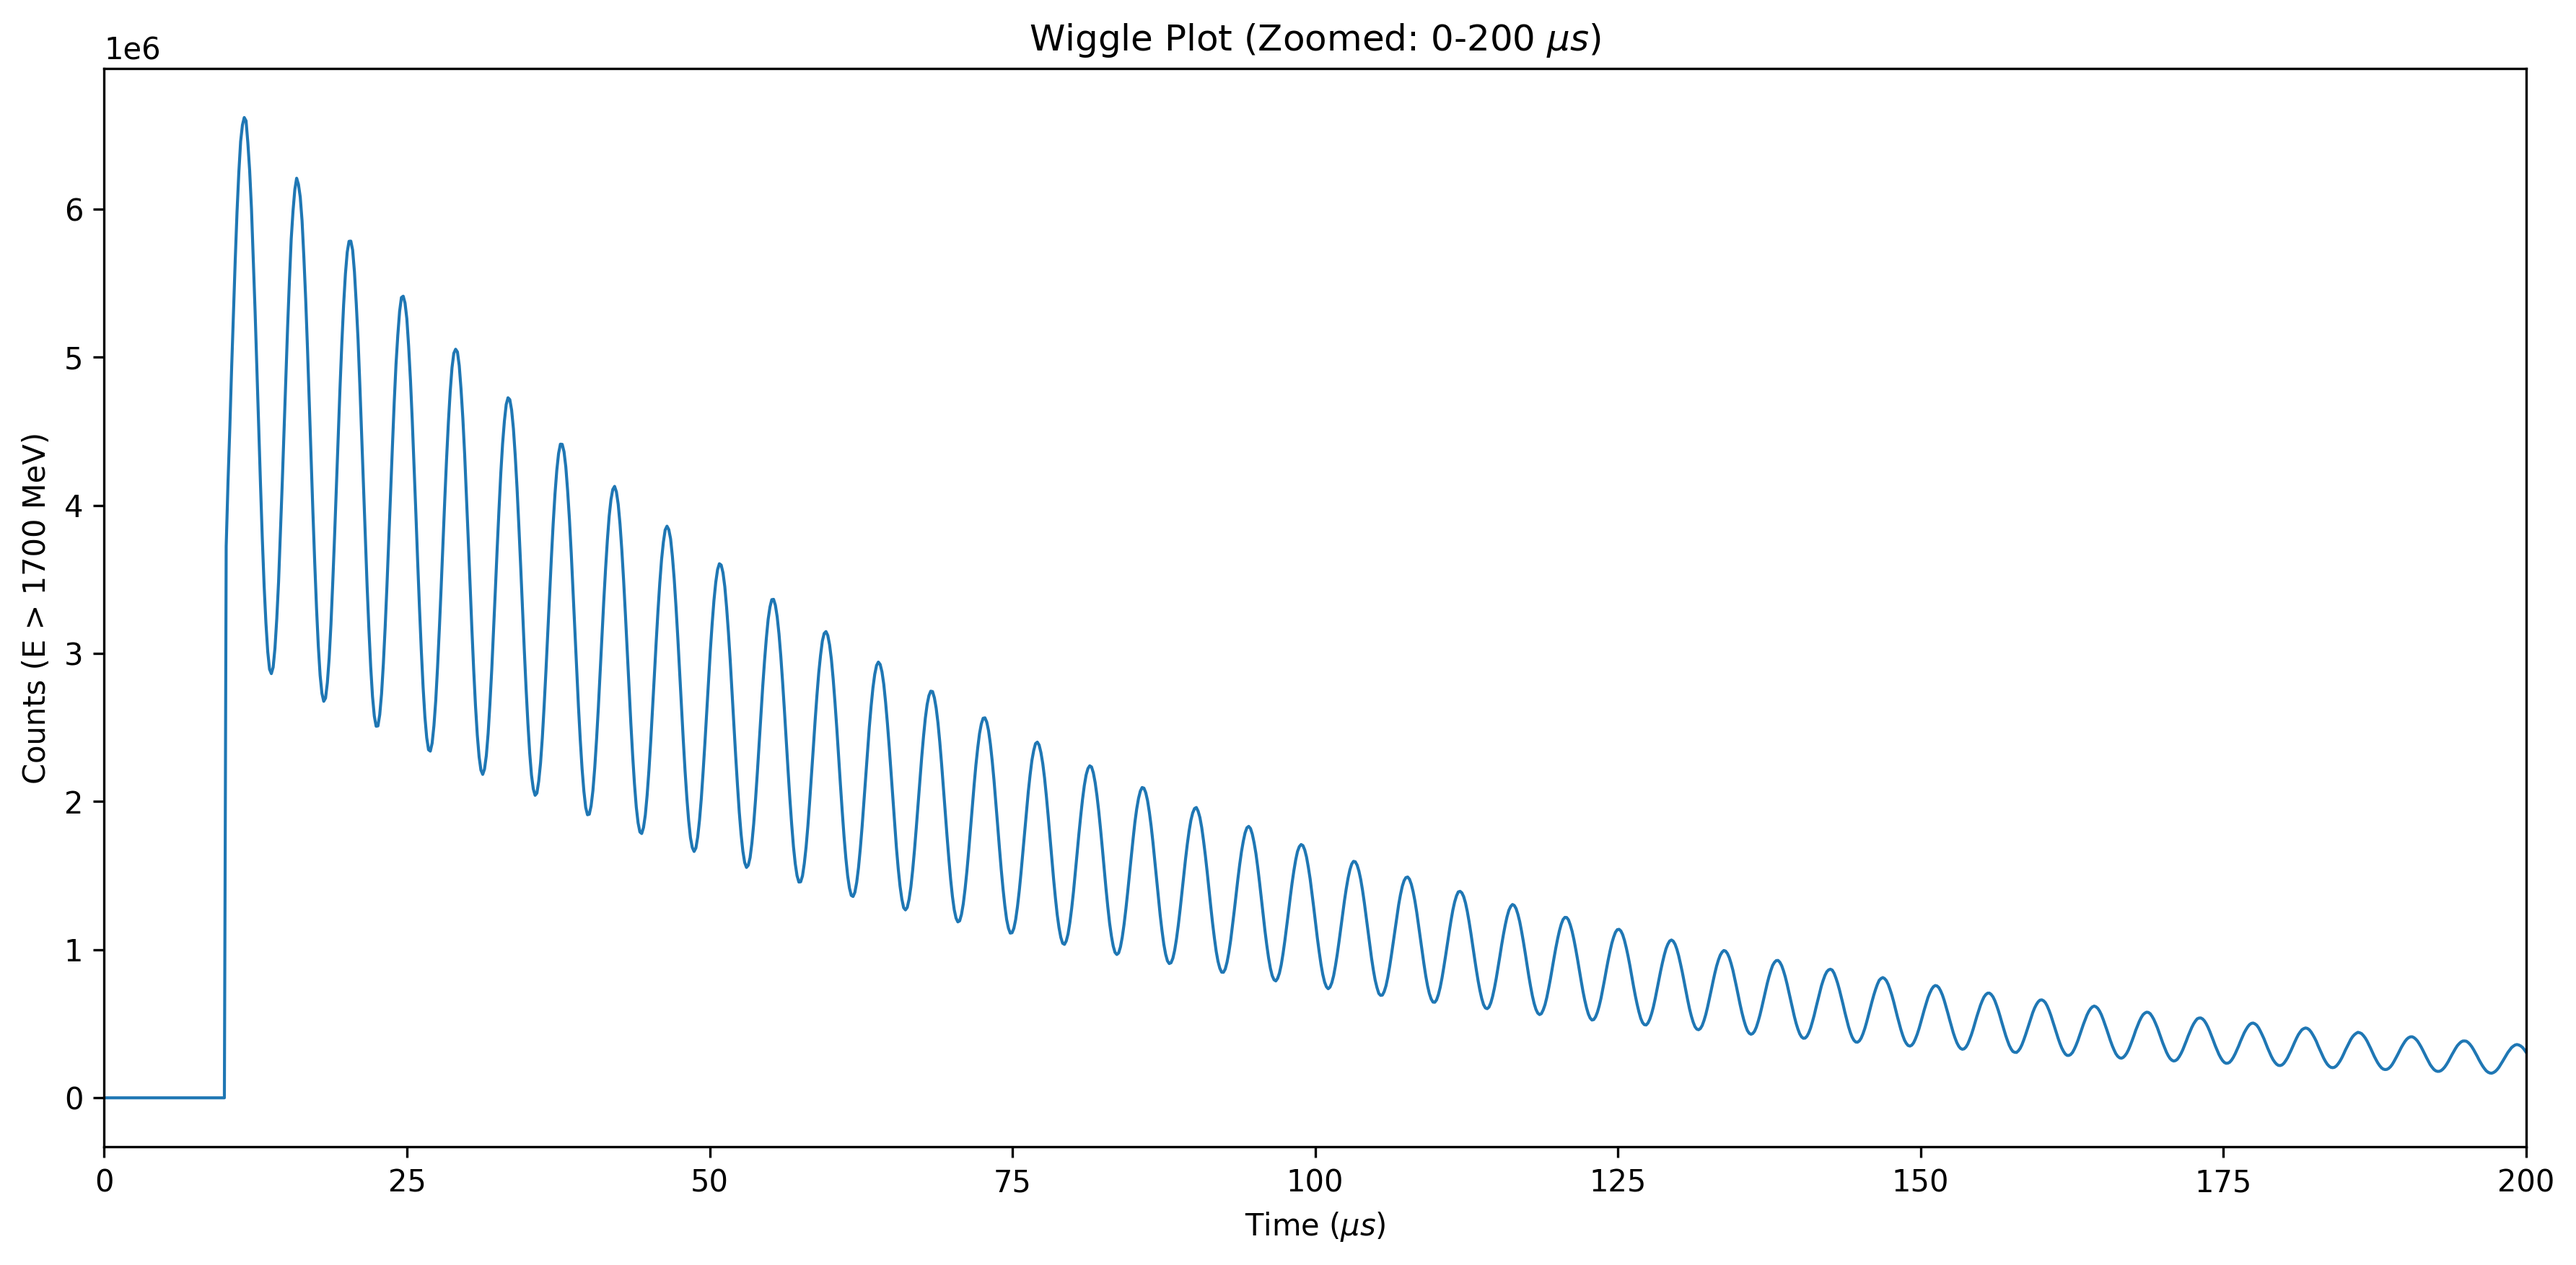
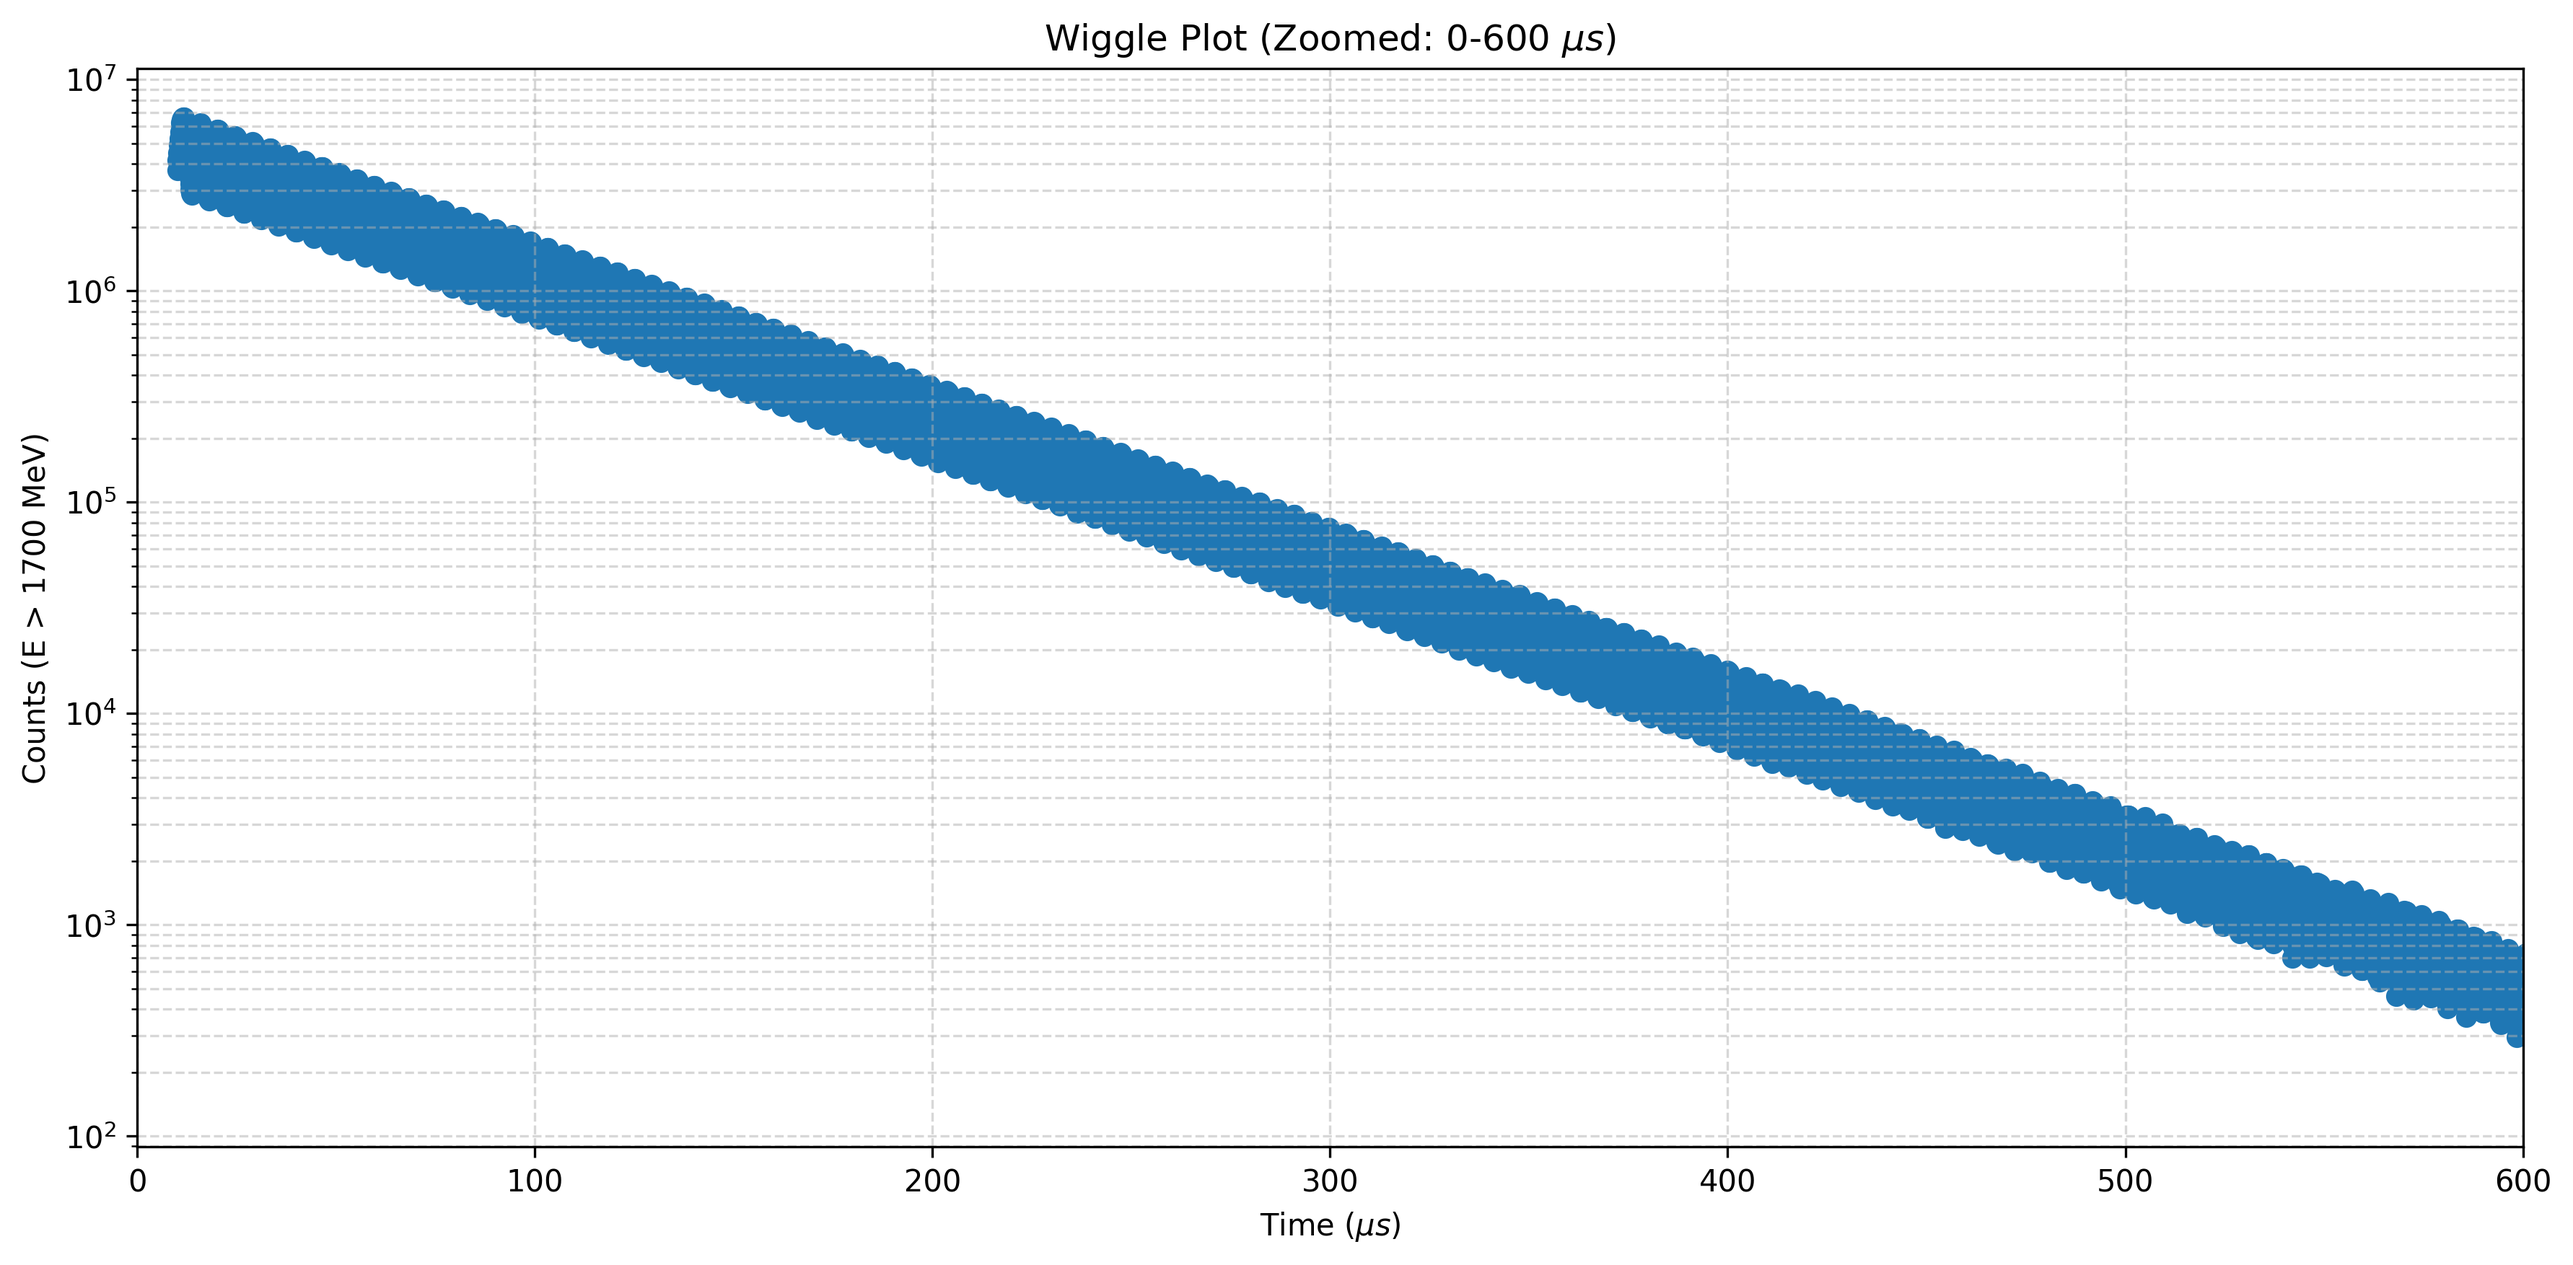
Refactor code structure for improved readability and maintainability

diff --git a/fit copy.py b/fit copy.py
@@ -1,0 +1,145 @@
+# fit.py
+
+import os
+import uproot
+import numpy as np
+import matplotlib.pyplot as plt
+from scipy.optimize import curve_fit
+from constants import TAU_LAB, OMEGA_A
+
+
+TAU_LAB = TAU_LAB * 1e6  # 转换为微秒
+OMEGA_A = OMEGA_A * 1e-6  # 转换为 rad/微秒
+# --- 1. 读取 ROOT 文件数据 ---
+try:
+    file = uproot.open("run6A.root")
+    hist = file["et_spectrum"]
+    values = hist.values()
+    time_edges = hist.axis(0).edges()
+    energy_edges = hist.axis(1).edges()
+except FileNotFoundError:
+    print("Error: run6A.root not found. Please make sure the ROOT file is in the correct directory.")
+    exit()
+
+# --- 2. 设定能量阈值，提取数据 (根据你提供的代码) ---
+threshold = 1700  # MeV
+
+# 找到阈值对应的能量 bin
+energy_bin = np.searchsorted(energy_edges, threshold, side="left")
+
+# 假设第 0 轴是时间，第 1 轴是能量：
+counts = values[:, energy_bin:].sum(axis=1)
+
+# 时间 bin 中心
+time_centers = 0.5 * (time_edges[:-1] + time_edges[1:])
+
+# --- 3. 选择拟合的时间范围 ---
+# 我们使用这两个变量既做拟合范围，也做画图的 xlim
+time_min = 30   # us, 避开早期的束流噪声
+time_max = 600  # us, 避开后期统计量太低的区域
+
+fit_mask = (time_centers >= time_min) & (time_centers <= time_max)
+time_fit = time_centers[fit_mask]
+counts_fit = counts[fit_mask]
+
+# 计算误差（泊松误差为 sqrt(N)，如果 counts 为 0 设为 1 防止除零报错）
+counts_err = np.sqrt(counts_fit)
+counts_err[counts_err == 0] = 1 
+
+# --- 4. 定义包含 omega 作为自由参数的拟合函数 ---
+def wiggle_fit_function(t, N, tau, A, omega, phi_0):
+    """
+    N: Normalization constant
+    tau: Decay time (自由参数)
+    A: Asymmetry parameter
+    omega: Anomalous precession frequency (自由参数)
+    phi_0: Initial phase
+    """
+    # 这里的 TAU_LAB 从 constants.py 导入，作为固定常数
+    return N * np.exp(-t / tau) * (1 + A * np.cos(omega * t - phi_0))
+
+# --- 5. 执行拟合 ---
+# 安全检查：防止单位不匹配导致除零错误
+decay_factor = np.exp(-time_fit[0] / TAU_LAB)
+if decay_factor == 0.0:
+    print("\n[!] ERROR: Decay factor evaluated to 0.0. 可能是 TAU_LAB 的单位不对。")
+    print("请确保 constants.py 中的 TAU_LAB 单位是微秒 (大约是 64.4)。")
+    exit()
+
+# 初始参数猜测 [N, tau, A, omega, phi_0]
+initial_N = counts_fit[0] / decay_factor
+initial_tau = TAU_LAB
+initial_A = 0.4  
+initial_omega = OMEGA_A  # 使用常数作为拟合的初始起点帮助收敛
+initial_phi_0 = 0.0 
+
+p0 = [initial_N, initial_tau, initial_A, initial_omega, initial_phi_0]
+print("Starting fit...")
+try:
+    popt, pcov = curve_fit(
+        wiggle_fit_function,
+        time_fit,
+        counts_fit,
+        p0=p0,
+        sigma=counts_err,
+        absolute_sigma=True, 
+        maxfev=10000 
+    )
+except RuntimeError as e:
+    print(f"Fit failed to converge: {e}")
+    exit()
+
+# 提取拟合参数和误差
+fit_N, fit_tau, fit_A, fit_omega, fit_phi_0 = popt
+perr = np.sqrt(np.diag(pcov))
+err_N, err_tau, err_A, err_omega, err_phi_0 = perr
+
+print("--- Fit Results ---")
+print(f"N     = {fit_N:.3e} ± {err_N:.3e}")
+print(f"tau   = {fit_tau:.2f} ± {err_tau:.2f} us (should be close to TAU_LAB = {TAU_LAB:.2f} us)")
+print(f"A     = {fit_A:.4f} ± {err_A:.4f}")
+print(f"omega = {fit_omega:.6f} ± {err_omega:.6f} rad/us")
+print(f"phi_0 = {fit_phi_0:.4f} ± {err_phi_0:.4f} rad")
+print("--------------------")
+
+# --- 6. 画 wiggle plot (根据你提供的代码风格) ---
+plt.figure(figsize=(12, 6))
+
+# 画原始数据连线
+plt.plot(time_centers, counts, lw=1, color='blue', alpha=0.5, label="Data")
+
+# 生成拟合平滑曲线并绘制
+plot_time = np.linspace(time_min, time_max, 1000)
+fit_curve = wiggle_fit_function(plot_time, *popt)
+plt.plot(plot_time, fit_curve, 'r-', linewidth=2, label="Fit")
+
+# 应用相同的时间显示范围
+plt.xlim(time_min, time_max)
+
+# 添加带单位的标签 (使用原始字符串 r"" 防止转义字符报错)
+plt.xlabel(r"Time ($\mu s$)") 
+plt.ylabel(f"Counts (E > {threshold} MeV)") 
+plt.title(f"Wiggle Plot and Fit (Zoomed: {time_min}-{time_max} $\mu s$)")
+plt.yscale("log") 
+plt.grid(True, which="both", ls="--", alpha=0.5)
+
+# 在图表右上角添加拟合结果文本框
+text_results = f"""Fit Parameters:
+   $N = ${fit_N:.2e} $\pm$ {err_N:.1e}
+   $A = ${fit_A:.3f} $\pm$ {err_A:.3f}
+    $\\tau = ${fit_tau:.2f} $\pm$ {err_tau:.2f} $\mu$s
+   $\omega = ${fit_omega:.5f} $\pm$ {err_omega:.5f} rad/$\mu$s
+   $\phi_0 = ${fit_phi_0:.3f} $\pm$ {err_phi_0:.3f} rad"""
+plt.text(0.65, 0.95, text_results, transform=plt.gca().transAxes,
+         fontsize=12, verticalalignment='top', 
+         bbox=dict(boxstyle='round,pad=0.5', fc='wheat', alpha=0.8))
+
+plt.legend(fontsize=12)
+plt.tight_layout()
+
+# 保存图片
+os.makedirs("plot", exist_ok=True)
+plt.savefig("plot/wiggle_plot_run6A_fit.png", dpi=300, bbox_inches='tight') 
+print("Fit plot saved to plot/wiggle_plot_run6A_fit.png")
+
+plt.show()

diff --git a/fit.py b/fit.py
@@ -1,0 +1,141 @@
+# fit.py
+
+import os
+import uproot
+import numpy as np
+import matplotlib.pyplot as plt
+from scipy.optimize import curve_fit
+from constants import TAU_LAB, OMEGA_A
+
+
+TAU_LAB = TAU_LAB * 1e6  # 转换为微秒
+OMEGA_A = OMEGA_A * 1e-6  # 转换为 rad/微秒
+# --- 1. 读取 ROOT 文件数据 ---
+try:
+    file = uproot.open("run6A.root")
+    hist = file["et_spectrum"]
+    values = hist.values()
+    time_edges = hist.axis(0).edges()
+    energy_edges = hist.axis(1).edges()
+except FileNotFoundError:
+    print("Error: run6A.root not found. Please make sure the ROOT file is in the correct directory.")
+    exit()
+
+# --- 2. 设定能量阈值，提取数据 (根据你提供的代码) ---
+threshold = 1700  # MeV
+
+# 找到阈值对应的能量 bin
+energy_bin = np.searchsorted(energy_edges, threshold, side="left")
+
+# 假设第 0 轴是时间，第 1 轴是能量：
+counts = values[:, energy_bin:].sum(axis=1)
+
+# 时间 bin 中心
+time_centers = 0.5 * (time_edges[:-1] + time_edges[1:])
+
+# --- 3. 选择拟合的时间范围 ---
+# 我们使用这两个变量既做拟合范围，也做画图的 xlim
+time_min = 30   # us, 避开早期的束流噪声
+time_max = 600  # us, 避开后期统计量太低的区域
+
+fit_mask = (time_centers >= time_min) & (time_centers <= time_max)
+time_fit = time_centers[fit_mask]
+counts_fit = counts[fit_mask]
+
+# 计算误差（泊松误差为 sqrt(N)，如果 counts 为 0 设为 1 防止除零报错）
+counts_err = np.sqrt(counts_fit)
+counts_err[counts_err == 0] = 1 
+
+# --- 4. 定义包含 omega 作为自由参数的拟合函数 ---
+def wiggle_fit_function(t, N, A, omega, phi_0):
+    """
+    N: Normalization constant
+    A: Asymmetry parameter
+    omega: Anomalous precession frequency (自由参数)
+    phi_0: Initial phase
+    """
+    # 这里的 TAU_LAB 从 constants.py 导入，作为固定常数
+    return N * np.exp(-t / TAU_LAB) * (1 + A * np.cos(omega * t - phi_0))
+
+# --- 5. 执行拟合 ---
+# 安全检查：防止单位不匹配导致除零错误
+decay_factor = np.exp(-time_fit[0] / TAU_LAB)
+if decay_factor == 0.0:
+    print("\n[!] ERROR: Decay factor evaluated to 0.0. 可能是 TAU_LAB 的单位不对。")
+    print("请确保 constants.py 中的 TAU_LAB 单位是微秒 (大约是 64.4)。")
+    exit()
+
+# 初始参数猜测 [N, A, omega, phi_0]
+initial_N = counts_fit[0] / decay_factor
+initial_A = 0.4  
+initial_omega = OMEGA_A  # 使用常数作为拟合的初始起点帮助收敛
+initial_phi_0 = 0.0 
+p0 = [initial_N, initial_A, initial_omega, initial_phi_0]
+
+print("Starting fit...")
+try:
+    popt, pcov = curve_fit(
+        wiggle_fit_function,
+        time_fit,
+        counts_fit,
+        p0=p0,
+        sigma=counts_err,
+        absolute_sigma=True, 
+        maxfev=10000 
+    )
+except RuntimeError as e:
+    print(f"Fit failed to converge: {e}")
+    exit()
+
+# 提取拟合参数和误差
+fit_N, fit_A, fit_omega, fit_phi_0 = popt
+perr = np.sqrt(np.diag(pcov))
+err_N, err_A, err_omega, err_phi_0 = perr
+
+print("--- Fit Results ---")
+print(f"N     = {fit_N:.3e} ± {err_N:.3e}")
+print(f"A     = {fit_A:.4f} ± {err_A:.4f}")
+print(f"omega = {fit_omega:.6f} ± {err_omega:.6f} rad/us")
+print(f"phi_0 = {fit_phi_0:.4f} ± {err_phi_0:.4f} rad")
+print("--------------------")
+
+# --- 6. 画 wiggle plot (根据你提供的代码风格) ---
+plt.figure(figsize=(12, 6))
+
+# 画原始数据连线
+plt.plot(time_centers, counts, lw=1, color='blue', alpha=0.5, label="Data")
+
+# 生成拟合平滑曲线并绘制
+plot_time = np.linspace(time_min, time_max, 1000)
+fit_curve = wiggle_fit_function(plot_time, *popt)
+plt.plot(plot_time, fit_curve, 'r-', linewidth=2, label="Fit")
+
+# 应用相同的时间显示范围
+plt.xlim(time_min, time_max)
+
+# 添加带单位的标签 (使用原始字符串 r"" 防止转义字符报错)
+plt.xlabel(r"Time ($\mu s$)") 
+plt.ylabel(f"Counts (E > {threshold} MeV)") 
+plt.title(f"Wiggle Plot and Fit (Zoomed: {time_min}-{time_max} $\mu s$)")
+plt.yscale("log") 
+plt.grid(True, which="both", ls="--", alpha=0.5)
+
+# 在图表右上角添加拟合结果文本框
+text_results = f"""Fit Parameters:
+   $N = ${fit_N:.2e} $\pm$ {err_N:.1e}
+   $A = ${fit_A:.3f} $\pm$ {err_A:.3f}
+   $\omega = ${fit_omega:.5f} $\pm$ {err_omega:.5f} rad/$\mu$s
+   $\phi_0 = ${fit_phi_0:.3f} $\pm$ {err_phi_0:.3f} rad"""
+plt.text(0.65, 0.95, text_results, transform=plt.gca().transAxes,
+         fontsize=12, verticalalignment='top', 
+         bbox=dict(boxstyle='round,pad=0.5', fc='wheat', alpha=0.8))
+
+plt.legend(fontsize=12)
+plt.tight_layout()
+
+# 保存图片
+os.makedirs("plot", exist_ok=True)
+plt.savefig("plot/wiggle_plot_run6A_fit.png", dpi=300, bbox_inches='tight') 
+print("Fit plot saved to plot/wiggle_plot_run6A_fit.png")
+
+plt.show()

diff --git a/data.py b/data.py
@@ -14,7 +14,7 @@ time_edges = hist.axis(0).edges()
 energy_edges = hist.axis(1).edges()
 
 # 4) 画二维能量-时间图
-plt.figure(figsize=(10, 8)) # 进一步加大初始尺寸
+plt.figure(figsize=(12, 6)) # 加大图表尺寸以适应放大显示
 plt.imshow(
     values.T,
     origin="lower",
@@ -24,8 +24,8 @@ plt.imshow(
 )
 
 # --- 手动设置显示范围 (放大并去掉不需要的数据) ---
-time_min, time_max = 0, 200      # 例如：只看 30us 到 400us
-energy_min, energy_max = 1000, 3200 # 例如：只看 1000MeV 到 3200MeV
+time_min, time_max = 0, 600      # 例如：只看 30us 到 400us
+energy_min, energy_max = 10, 3200 # 例如：只看 1000MeV 到 3200MeV
 
 plt.xlim(time_min, time_max)
 plt.ylim(energy_min, energy_max)
@@ -34,14 +34,8 @@ plt.colorbar(label="Counts")
 plt.xlabel("Time ($\mu s$)")
 plt.ylabel("Energy (MeV)")
 plt.title(f"Energy-Time Histogram (Zoomed: {time_min}-{time_max} $\mu s$)")
-
-# 尝试让窗口最大化显示
-try:
-    mng = plt.get_current_fig_manager()
-    mng.window.state('zoomed') # 针对 Windows 系统的最大化
-except:
-    pass
-
+plt.yscale("log") # 能量轴通常使用对数坐标，方便观察高能尾部的 wiggle 结构
+plt.grid(True, which="both", ls="--", alpha=0.5)
 plt.tight_layout() # 移除边距
 plt.savefig("plot/energy_time_histogram.png", dpi=300, bbox_inches='tight')
 plt.show()
@@ -68,7 +62,23 @@ plt.xlim(time_min, time_max)
 plt.xlabel("Time ($\mu s$)") # 添加单位
 plt.ylabel(f"Counts (E > {threshold} MeV)") # 添加单位
 plt.title(f"Wiggle Plot (Zoomed: {time_min}-{time_max} $\mu s$)")
-
+plt.yscale("log") # 对数坐标更清晰地展示 wiggle 结构
+plt.grid(True, which="both", ls="--", alpha=0.5)
 plt.tight_layout()
 plt.savefig("plot/wiggle_plot_run6A.png", dpi=300, bbox_inches='tight') # 保存图片
+plt.show()
+
+
+
+#生成时间除以100的余数为横坐标的wiggle plot
+time_mod = time_centers % 100
+plt.figure(figsize=(12, 10))
+plt.scatter(time_mod, counts, s=1)
+plt.xlabel("Time mod 100 ($\mu s$)")
+plt.ylabel(f"Counts (E > {threshold} MeV)")
+plt.title(f"Wiggle Plot (Time mod 100 $\mu s$)")
+plt.yscale("log")
+plt.grid(True, which="both", ls="--", alpha=0.5)
+plt.tight_layout()
+plt.savefig("plot/wiggle_plot_time_mod_100.png", dpi=300, bbox_inches='tight')
 plt.show()

diff --git a/constants.py b/constants.py
@@ -5,8 +5,8 @@ M_MU = 105.658     # 缪子质量 MeV/c^2
 M_E = 0.511       # 电子质量 MeV/c^2
 E_MAX = (M_MU**2 + M_E**2) / (2 * M_MU) # 静止系下正电子获得最大能量 MeV
 
-BETA = 0.999      # 缪子速度 
-GAMMA = 1/np.sqrt(1-BETA**2) # 洛伦兹因子
+GAMMA = 29.3 # 洛伦兹因子
+BETA = np.sqrt(1 - 1/GAMMA**2) # 根据 GAMMA 计算 BETA，确保物理一致性
 TAU_REST = 2.2e-6    # 静止寿命 s
 TAU_LAB = GAMMA * TAU_REST # 实验室寿命 s
 
